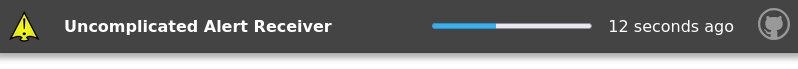
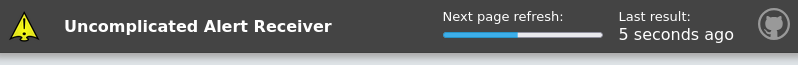
Update docs for new header style

diff --git a/docs/userguide.md b/docs/userguide.md
@@ -4,6 +4,6 @@ When you have UAR installed, you will see a header that looks like this. The hea
 
 ![header](header.png)
 
-- **Time Until Next Refresh** (Progress Bar): By default, UAR will refresh every 30 seconds. The process bar will show the time until the next refresh. It's useful to see this on heads up displays, as they can lock up, or get screen-freeze, and this progress bar proves the page has not frozen.
+- **Next Page Refresh** (Progress Bar): By default, UAR will refresh every 30 seconds. The process bar will show the time until the next refresh. It's useful to see this on heads up displays, as they can lock up, or get screen-freeze, and this progress bar proves the page has not frozen.
 
-- **Time since last Alertreceiver Payload**: This shows the number of seconds (or minutes, hours, days) since the last payload was received. This is useful to see if the payload is being received at all, or if your Alertmanager may be having issues.
+- **Last result**: This shows the number of seconds (or minutes, hours, days) since the last payload was received. This is useful to see if the payload is being received at all, or if your Alertmanager may be having issues. This will also show issues if there were errors talking to the UAR API.
